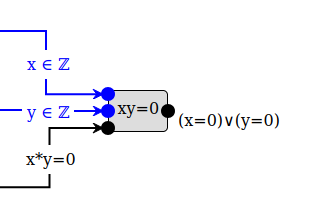
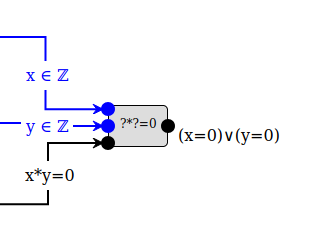
clean up palettes and prompts

Changed region(s): [[0.0, 0.1351, 0.9, 0.6757], [0.0, 0.6757, 0.2613, 0.8919]]

diff --git a/static/index.html b/static/index.html
@@ -96,7 +96,7 @@
         <div class="basic logical rule" style="text-align: center" id="asc" data-rule="asc">🏷</div>
         <div class="basic logical rule" style="text-align: center; color: #0000ff" id="expr" data-rule="expr">expr</div>
         <div class="basic logical rule" style="text-align: center" id="alg" data-rule="alg">alg</div>
-        <div class="basic logical rule" style="text-align: center" id="integral" data-rule="integral">xy=0</div>
+        <div class="basic logical rule" style="text-align: center; font-size: 12px" id="integral" data-rule="integral">?*?=0</div>
       </div>
       <div style="height: 80px; display: block; align-items: end" id="buttons">
         <button id="clearProof" class="proofOption">Clear</button>
@@ -191,7 +191,7 @@
 
     <div id="ascribeBG" class="modalbg">
       <div class="modal">
-        <h3 style="text-align: center">Ascribe a wire</h3>
+        <h3 style="text-align: center">Label a wire</h3>
         <p>Enter a statement for the label:</p>
         <input type="text" id="ascribe" style="width: 100%"/>
         <div id="ascPalette"></div>
@@ -207,9 +207,18 @@
         <h3 style="text-align: center">Enter an expression</h3>
         <p>Enter an expression, possibly using available variables.</p>
         <input type="text" id="expression" style="width: 97%"/>
-        <div id="expressionPalette"></div>
-        <p>Multiplication is denoted by <tt>*</tt> and exponentiation by <tt>^</tt>, so to write 2x²+1 you should type <tt>2*x^2+1</tt> (displayed as 2*x²+1) .
-          Subtraction is denoted with <tt>-</tt> and prefix negation by <tt>--</tt>, so to write −x−1 you should type <tt>--x-1</tt> (displayed as ∸x−1).</p>
+        <p>How to write basic algebraic expressions:<p>
+        <table style="margin-left: auto; margin-right: auto; border-spacing: 50px 0">
+          <tbody>
+            <tr><td>Addition</td><td><tt>x+y</tt></td></tr>
+            <tr><td>Subtraction</td><td><tt>x-y</tt></td></tr>
+            <tr><td>Negation</td><td><tt>--x</tt></td><td>(not <tt>-x</tt>)</tr>
+            <tr><td>Multiplication</td><td><tt>x*y</tt></td><td>(not <tt>xy</tt>)</tr>
+            <tr><td>Exponentiation</td><td><tt>x^y</tt></td></tr>
+            <tr><td>Division</td><td><tt>x/2</tt></td><td>(or <tt>1/2*x</tt> or <tt>0.5*x</tt>)</tr>
+          </tbody>
+        </table>
+        <p>At present you can only divide by fixed positive integers, and of course only if the intended type of this expression is a number system that allows division.</p>
         <div style="text-align: center; margin-top: 30px">
           <button id="submitExpression" style="font-size: 16px">Submit</button>
           <button id="cancelExpression" style="font-size: 16px">Cancel</button><br/>
@@ -560,19 +569,34 @@
         I need to use different symbols for <i>subtraction</i> (of two numbers) and <i>negation</i> (of one number).
         I'll write "x−y" for subtraction (you can type this with the ordinary hyphen key) and "∸x" for negation (you can type this with a double hyphen, <tt>--</tt>).
       </div>
+      <div id="setsHint" class="modal hint" style="width: 600px">
+        Now that we are doing algebra, our variables will denote <i>numbers</i> of one kind or another.
+        Thus, they won't belong to abstract sets denoted A or B any more, but rather sets of numbers.
+        Here are the sets of numbers we'll be using:
+        <table style="margin-left: auto; margin-right: auto; border-spacing: 20px 5px">
+          <tbody>
+            <tr><td>ℕ</td><td>The natural numbers: 0,1,2,3,…</td></tr>
+            <tr><td>ℤ</td><td>The integers: …,−3,−2,−1,0,1,2,3,…</td></tr>
+            <tr><td>ℚ</td><td>The rational numbers: fractions p/q where p,q∈ℤ, q≠0</td></tr>
+            <tr><td>ℝ</td><td>The real numbers: finite or infinite decimals, e.g. π, √2</td></tr>
+            <tr><td>ℂ</td><td>The complex numbers: a+bi where a,b∈ℝ and i²=−1</td></tr>
+            <tr><td>𝕊</td><td>The surreal numbers: the real numbers plus "infinite" numbers like ω and "infinitesimal" numbers like 1/ω</td></tr>
+          </tbody>
+        </table>
+      </div>
       <div id="integralHint" class="modal hint" style="width: 600px">
         One thing the algebra block doesn't "know" is that if the product of two numbers is zero, one or the other of them must be zero.
-        (Indeed, this is not true for all kinds of "number", but it is true for ordinary integers, real numbers, and so on.)
-        If you need this fact, use the block labeled "xy=0": give it the two numbers and an assumption that their product is zero, and you'll get out that either the first is is zero or the second is zero.
+        If you need this fact, use the block labeled "?*?=0": give it the two numbers and an assumption that their product is zero, and you'll get out that either the first is is zero or the second is zero.
         <img src="hints/xy0.png" style="margin-left: auto; margin-right:auto; display:block">
         <b>Warning:</b> do not connect blue "value" wires to "alg" boxes!
-        All the inputs to an "alg" box must be <i>equations</i>, as those are the only things I can do algebra with.
+        All the inputs to an "alg" box must be <i>equations</i> (or inequalities), as those are the only things I can do algebra with.
         I can figure out on my own which variables appear in the equations.
       </div>
       <div id="exprHint" class="modal hint">
-        If you need an input to a blue "value" port that isn't just a number, use the "expr" block, which will prompt you for an expression.
+        If you need an input to a blue "value" port that isn't just a variable, use the "expr" block, which will prompt you for an expression.
         You must connect the input port of that block to all the variables that occur in your expression.
         <img src="hints/expr.png" style="margin-left: auto; margin-right:auto; display:block">
+        <b>Warning:</b> do not connect any black "statement" wires to a blue "expr" block!
       </div>
     </div>
 

diff --git a/client/main.js b/client/main.js
@@ -26,7 +26,7 @@ document.documentElement.style.setProperty('--master-bg', COLORS[2][1].backgroun
 const VALUECOLOR = "#0000ff";
 
 // Unicode characters to put in the button palette below text boxes
-const PALETTE = ['∧', '∨', '⇒', '⇔', '¬', '⊤', '⊥', '∀', '∃', '∈', '≠', 'ℤ'];
+const PALETTE = ['∧', '∨', '⇒', '⇔', '¬', '⊤', '⊥', '∀', '∃', '∈', '≠', '≤', '≥', 'ℕ', 'ℤ', 'ℚ', 'ℝ', 'ℂ', '𝕊'];
 
 // For some unfathomable reason this is not built into JavaScript
 function escapeRegex(string) {
@@ -56,10 +56,17 @@ const KEYS = [
     { unicode: '∸', keys: [ '--', '−-', '−−' ] },
     { unicode: '−', keys: [ '-' ] },
     { unicode: '≠', keys: [ '\\neq' ] },
+    { unicode: '≤', keys: [ '\\le' ] },
+    { unicode: '≥', keys: [ '\\ge' ] },
+    { unicode: 'ℕ', keys: [ '\\N ' ] },
     { unicode: 'ℤ', keys: [ '\\Z ' ] },
+    { unicode: 'ℚ', keys: [ '\\Q ' ] },
+    { unicode: 'ℝ', keys: [ '\\R ' ] },
+    { unicode: 'ℂ', keys: [ '\\C ' ] },
+    { unicode: '𝕊', keys: [ '\\S ' ] },
     { unicode: '²', keys: [ '^2', '**2' ] },
     { unicode: '³', keys: [ '^3', '**3' ] },
-    { unicode: '³', keys: [ '^4', '**4' ] },
+    { unicode: '⁴', keys: [ '^4', '**4' ] },
 ].map(function (entry) {
     entry.regexes = entry.keys.map(function (str) { return new RegExp(escapeRegex(str), 'g'); });
     return entry
@@ -1214,7 +1221,12 @@ function makePalette(palid, eltid) {
         document.getElementById("shortcutsBG").style.display = 'flex';
     });
     pal.appendChild(b);
-    // Detect shortcut key sequences
+    addShortcuts(eltid);
+}
+
+// Detect shortcut key sequences in a text box
+function addShortcuts(eltid) {
+    const elt = document.getElementById(eltid);
     elt.addEventListener('input', () => {
         var text = elt.value;
         KEYS.forEach(function (entry) {
@@ -1231,8 +1243,8 @@ makePalette('varPalette', 'variables');
 makePalette('hypPalette', 'hypotheses');
 makePalette('conclPalette', 'conclusion');
 makePalette('ascPalette', 'ascribe');
-makePalette('expressionPalette', 'expression');
 makePalette('wirePalette', 'wire');
+addShortcuts('expression');
 
 var shortcuts = document.getElementById('shortcuts');
 var shortcut_thead = document.createElement('thead');

diff --git a/client/levels.js b/client/levels.js
@@ -1128,15 +1128,16 @@ export const LEVELS = [
             rules: [ "orI1", "orI2", "orE", "expr", "alg", "integral" ],
             levels: [
                 {
-                    parameters: [ { name: "x", ty: "ℤ" }, { name: "y", ty: "ℤ" } ],
-                    variables: [ ],
+                    parameters: [ ],
+                    variables: [ { name: "x", ty: "ℤ" }, { name: "y", ty: "ℤ" } ],
                     hypotheses: [ { ty: "(x=y+1)∨(2*x=3−y)" } ],
                     conclusion: { ty: "2*x²−x*y−y²=5*x−2*y−3" },
                     trivial: true,
+                    hint: "setsHint",
                 },
                 {
-                    parameters: [ { name: "x", ty: "ℤ" }, { name: "y", ty: "ℤ" } ],
-                    variables: [ ],
+                    parameters: [ ],
+                    variables: [ { name: "x", ty: "ℤ" }, { name: "y", ty: "ℤ" } ],
                     hypotheses: [ { ty: "(x+y=1)∨(x−y=1)" } ],
                     conclusion: { ty: "x²+1=y²+2*x" },
                     trivial: true,
@@ -1171,7 +1172,7 @@ export const LEVELS = [
                 {
                     parameters: [ ],
                     variables: [ { name: "x", ty: "ℤ" } ],
-                    hypotheses: [ { ty: "(x²−2*x−3=0)∨(x²+3x+2=0)" } ],
+                    hypotheses: [ { ty: "(x²−2*x−3=0)∨(x²+3*x+2=0)" } ],
                     conclusion: { ty: "(x=3)∨((x=∸1)∨(x=∸2))" },
                 },
             ],
